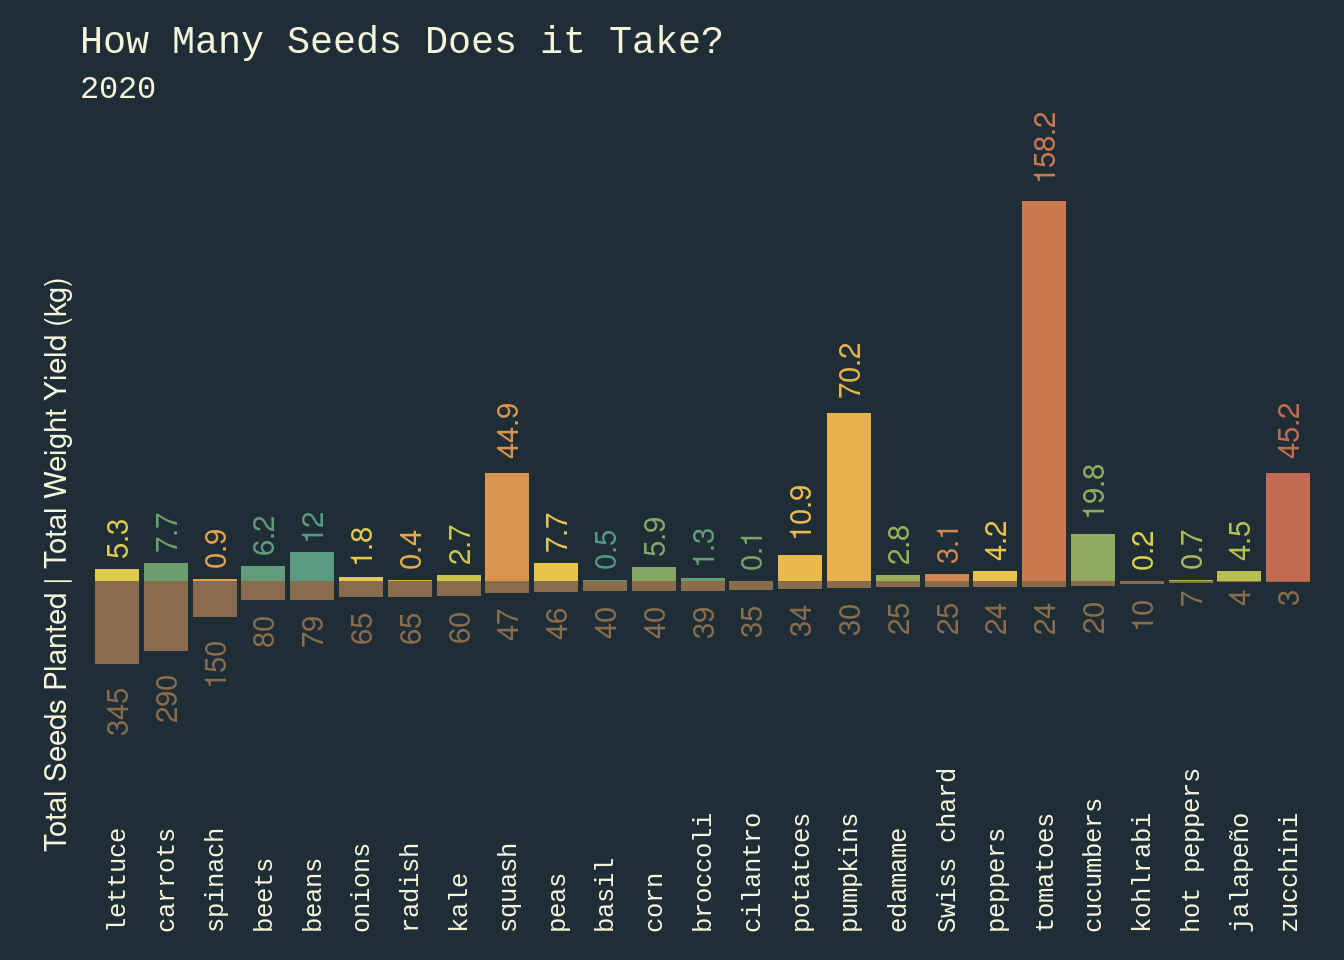
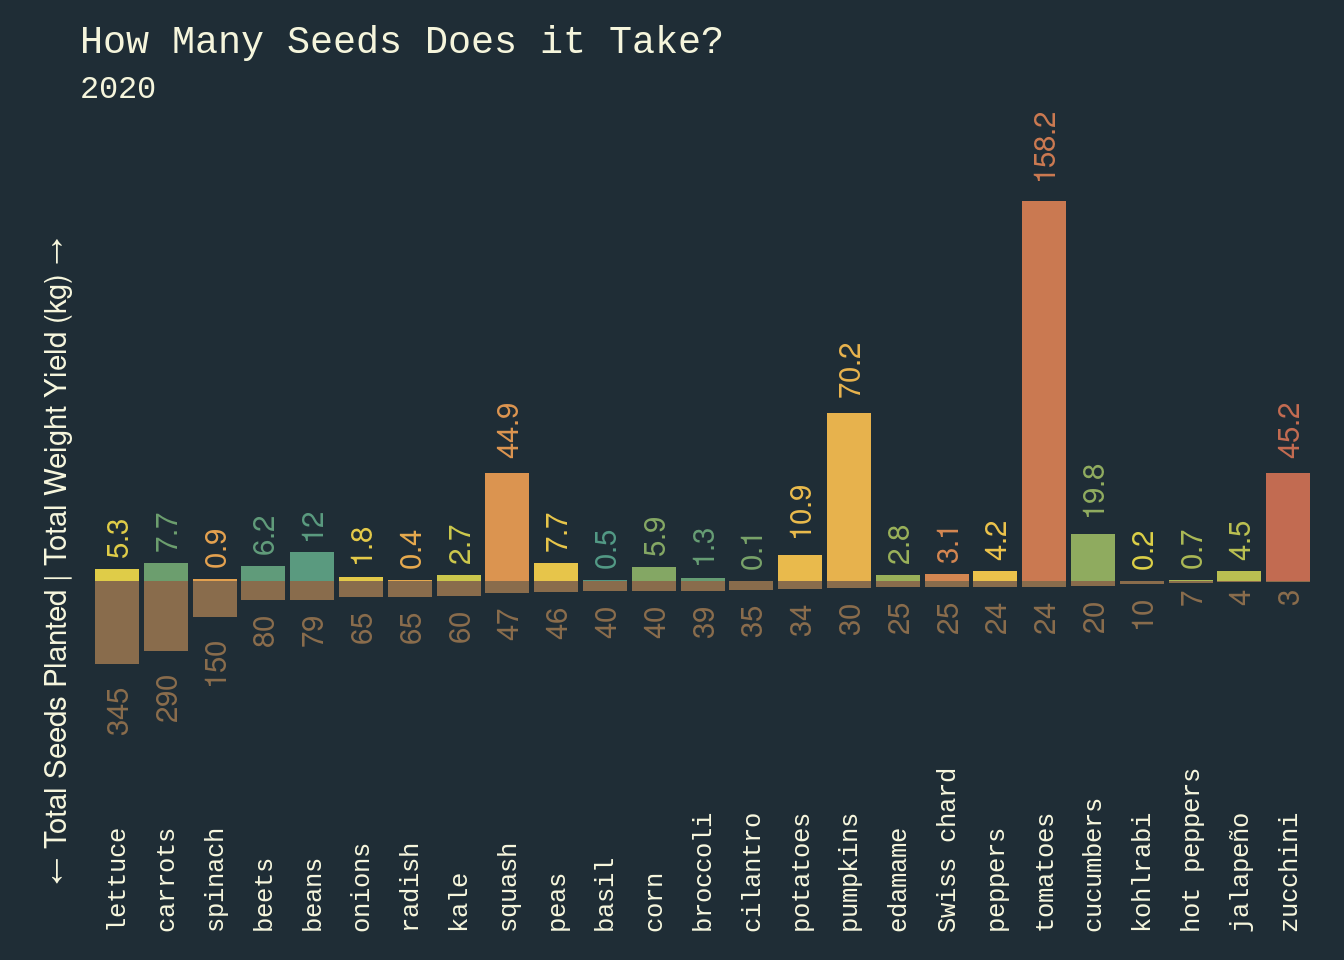
Built site for gh-pages

Changed region(s): [[0.0312, 0.2812, 0.0625, 0.875]]

diff --git a/tidytuesday2024/tidy22.html b/tidytuesday2024/tidy22.html
@@ -378,7 +378,7 @@ pre > code.sourceCode > span > a:first-child::before { text-decoration: underlin
 <span id="cb7-46"><a href="#cb7-46" aria-hidden="true" tabindex="-1"></a>    <span class="st">"text"</span>, </span>
 <span id="cb7-47"><a href="#cb7-47" aria-hidden="true" tabindex="-1"></a>    <span class="at">x =</span> <span class="sc">-</span><span class="cn">Inf</span>, </span>
 <span id="cb7-48"><a href="#cb7-48" aria-hidden="true" tabindex="-1"></a>    <span class="at">y =</span> <span class="dv">0</span>, </span>
-<span id="cb7-49"><a href="#cb7-49" aria-hidden="true" tabindex="-1"></a>    <span class="at">label =</span> <span class="st">"Total Seeds Planted | Total Weight Yield (kg)"</span>,</span>
+<span id="cb7-49"><a href="#cb7-49" aria-hidden="true" tabindex="-1"></a>    <span class="at">label =</span> <span class="st">"← Total Seeds Planted | Total Weight Yield (kg) →"</span>,</span>
 <span id="cb7-50"><a href="#cb7-50" aria-hidden="true" tabindex="-1"></a>    <span class="at">color =</span> <span class="st">"beige"</span>,</span>
 <span id="cb7-51"><a href="#cb7-51" aria-hidden="true" tabindex="-1"></a>    <span class="at">angle =</span> <span class="dv">90</span>,</span>
 <span id="cb7-52"><a href="#cb7-52" aria-hidden="true" tabindex="-1"></a>    <span class="at">hjust =</span> .<span class="dv">47</span>,</span>
@@ -474,7 +474,7 @@ pre > code.sourceCode > span > a:first-child::before { text-decoration: underlin
 <span id="cb9-46"><a href="#cb9-46" aria-hidden="true" tabindex="-1"></a>    <span class="st">"text"</span>, </span>
 <span id="cb9-47"><a href="#cb9-47" aria-hidden="true" tabindex="-1"></a>    <span class="at">x =</span> <span class="sc">-</span><span class="cn">Inf</span>, </span>
 <span id="cb9-48"><a href="#cb9-48" aria-hidden="true" tabindex="-1"></a>    <span class="at">y =</span> <span class="dv">0</span>, </span>
-<span id="cb9-49"><a href="#cb9-49" aria-hidden="true" tabindex="-1"></a>    <span class="at">label =</span> <span class="st">"Total Seeds Planted | Total Weight Yield (kg)"</span>,</span>
+<span id="cb9-49"><a href="#cb9-49" aria-hidden="true" tabindex="-1"></a>    <span class="at">label =</span> <span class="st">"← Total Seeds Planted | Total Weight Yield (kg) →"</span>,</span>
 <span id="cb9-50"><a href="#cb9-50" aria-hidden="true" tabindex="-1"></a>    <span class="at">color =</span> <span class="st">"beige"</span>,</span>
 <span id="cb9-51"><a href="#cb9-51" aria-hidden="true" tabindex="-1"></a>    <span class="at">angle =</span> <span class="dv">90</span>,</span>
 <span id="cb9-52"><a href="#cb9-52" aria-hidden="true" tabindex="-1"></a>    <span class="at">hjust =</span> .<span class="dv">47</span>,</span>
